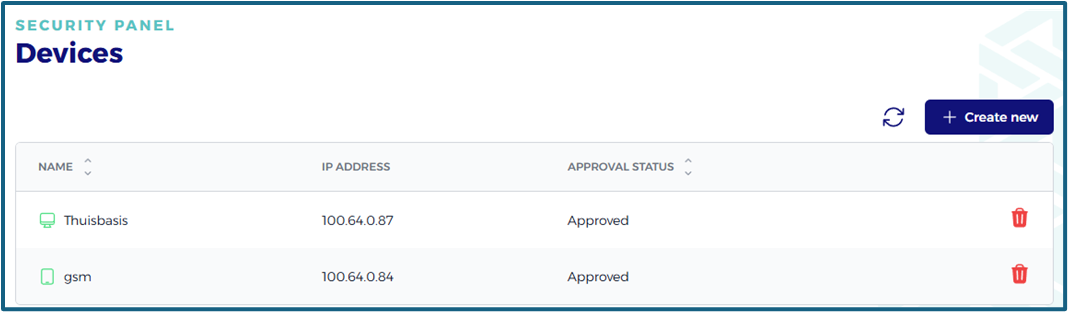
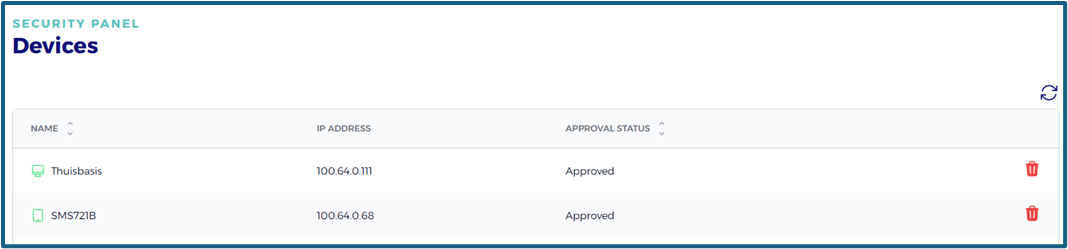
24th of July, 2025 (12:15)

diff --git a/rules/security_panel/security_panel.md b/rules/security_panel/security_panel.md
@@ -4,19 +4,19 @@ When you click on the Jimber tray icon, a menu appears with several available op
 
 ![Screenshot of the Jimber Tray Menu](./screenshots/jimber_tray.png ':size=300')
 
-> [!INFO]
-> Aside from the Security Panel, the menu offers other information about your connection to the `Jimber SASE Platform`, such as your login status, user details, the company you are connected to, and your `Jimber SASE Platform` IP address.
->
->
-> Here you can either disconnect (and reconnect) to the `Jimber SASE Platform`, or log out from the platform. Note that you will need to log back in with your credentials if you choose this option.
->
->
-> Finally, the menu allows you to toggle **Stealth mode** for your session. Stealth mode is designed to make VPN connections possible in environments that would normally block them—such as public hotspots, airports, or countries with strict internet censorship. It works by disguising VPN traffic to look like regular internet traffic, helping you bypass network restrictions.
->
->
-> Note that **Stealth mode** is only available in certain situations where your connection is recognized as external to the Jimber SASE cloud environment.
 
-Clicking Security Panel opens a new browser tab. By default, the Services tab is shown, and depending on the configured services, the screen you see may vary.
+Aside from the Security Panel, the menu offers other information about your connection to the `Jimber SASE Platform`, such as your login status, user details, the company you are connected to, and your `Jimber SASE Platform` IP address.
+
+
+Here you can either quit the application, disconnect (and reconnect) to the `Jimber SASE Platform`, or log out from the platform. Note that you will need to log back in with your credentials if you choose this option.
+
+Finally, the menu allows you to toggle **Stealth mode** for your session. Stealth mode ensures that traffic is sent via encrypted HTTP and is designed to make VPN connections possible in environments that would normally block them, such as public hotspots, airports, or countries with strict internet censorship. It works by disguising VPN traffic to look like regular internet traffic, helping you bypass network restrictions.
+
+
+> [!NOTE]
+> **Stealth mode** is only available in certain situations where your connection is recognized as external to the Jimber SASE cloud environment.
+
+Clicking **Security Panel** opens a new browser tab. By default, the Services tab is shown, and depending on the configured services, the screen you see may vary.
 
 ![Screenshot of the Services tab of the Security Panel](./screenshots/secure_panel.png ':size=700')
 
@@ -25,33 +25,55 @@ The services listed on this page depend on the configurations set under Services
 > [!INFO]
 > More information on configuring services can be found [here](/./rules/services/services.md).
 
-Selecting the second option in the sidebar, Devices, displays a screen where you can inspect and add your mobile devices.
+Selecting the second option in the sidebar, Devices, displays a screen where you can inspect all your devices.
 
 ![Screenshot of the Devices tab of the Security Panel](./screenshots/sec_pan_devices.png ':size=700')
 
-> [!WARNING]
-> Users can only create new mobile devices on this page. Other devices like laptops, PCs and servers will appear in the list after installing the *`Jimber SASE Client`* and running it on the device to sign in to the *`Jimber SASE Platform`*.
->
+> [!NOTE]
+> All devices will appear in the list after installing the *`Jimber SASE Client`* and running it on the device to sign in to the *`Jimber SASE Platform`*.
+<!-- >
 >The `+ Create new` button will only be visible if the Group Configuration **MOBILE CONNECTION** is enabled for the group the user belongs to. 
 >
-> More information on Group Configuration can be found [here](/./rules/groupconfiguration/groupconfiguration.md).
+> More information on Group Configuration can be found [here](/./rules/groupconfiguration/groupconfiguration.md). -->
 
 
-You can add a new mobile device by clicking on the `+ Create new` button located at the upper right corner of the interface. 
+<!-- You can add a new mobile device by clicking on the `+ Create new` button located at the upper right corner of the interface.  -->
 
-In step 1, you are provided with a QR code to install the Jimber SASE app.<!--Jimber SASE Application--> If you have already installed the application, you may skip this step.
+### Installing Jimber SASE on a mobile device
 
-![Screenshot of step 1 of adding a User Device](./screenshots/scan_device.png ':size=500')
+**Step 1**
 
-In step 2, you can choose a name for your new mobile device.
+Search in the Play Store or in the App Store for `Jimber Network Installation` and install the app.   
 
-![Screenshot of step 2 of adding a User Device](./screenshots/add_user_device.png ':size=500')
+<!-- ![Screenshot of step 1 of adding a User Device](./screenshots/scan_device.png ':size=500') -->
 
-In Step 3, you are provided with a different QR code to connect the mobile device to your user account on the *`Jimber SASE Platform`*. Follow the instructions in this step to scan the code using the application.
+**Step 2** 
+
+Open the app and sign in to your account: 
+
+![log_in](./screenshots/sign_in.jpg ':size=200')
+
+> [!NOTE]
+> If you don't have a login yet, please reach out to your network administrator to set up an account for you.
+
+**Step 3**
+
+Choose a name for your added mobile device and hit `Submit`
+
+![choose_name](./screenshots/choose_name.jpg ':size=200')
+
+**Step 4**
+
+In the next screen, toggle the switch to turn on `Jimber SASE`.  
+
+![turn_on](./screenshots/turn_on_jimber.jpg ':size=200')
+
+<!-- In Step 3, you are provided with a different QR code to connect the mobile device to your user account on the *`Jimber SASE Platform`*. Follow the instructions in this step to scan the code using the application.
 
 ![Screenshot of step 3 of adding a User Device](./screenshots/add_user_device_2.png ':size=500')
 
-After confirming the installation by clicking `I have configured my device`, your mobile device will be added to the list. 
+After confirming the installation by clicking `I have configured my device`, your mobile device will be added to the list.  -->
+The mobile device can now be found in the list of devices. 
 
 >[!Warning]
 > The user will not be able to add a new mobile device if the Group Configuration **DEVICE LIMIT** is enabled and the maximum number of allowed devices has already been reached.

diff --git a/advanced/unified_environment/unified_environment.md b/advanced/unified_environment/unified_environment.md
@@ -48,6 +48,8 @@ The first step is to register the domains of each company into the SASE environm
 
 Domains act as the primary namespace reference for users, groups, resources, and policies.
 
+![domains.png](/screenshots/domains.png)
+
 ---
 
 ### Step 2 — Add Users
@@ -55,6 +57,8 @@ Domains act as the primary namespace reference for users, groups, resources, and
 Users are added based on their email addresses, which automatically tie them to the appropriate domain/company.
 
 No additional onboarding steps are required per user beyond adding their email — their domain affiliation is clear from the email (e.g., `alice@companya.be`, `bob@companyb.co.uk`).
+
+![users.png](/screenshots/users.png)
 
 ---
 
@@ -81,6 +85,8 @@ Add the resources (servers, applications, file shares, etc.) specific to the com
 
 This makes it easy to identify and manage company-specific assets.
 
+![servers.png](/screenshots/servers.png)
+
 ---
 
 ### Step 5 — Configure Access via Attribute Service
@@ -104,7 +110,7 @@ Unified, functional security groups:
 - Focus on shared security functions rather than company boundaries
 - Allow policies to be applied centrally and uniformly
 
-For example:
+**For example:**
 - A group like `group.webfiltering-enabled.all-companies` could include `group.all-users.companya.be`, `group.all-users.companyb.co.uk`, and other company user groups.
 
 ---
@@ -114,10 +120,10 @@ For example:
 Central policy application  
 You can attach security features (such as `policy.webfiltering.all-companies`, `policy.dns-protection.all-companies`) directly to these functional groups. This ensures the policy is enforced consistently, no matter the company.
 
-Flexible membership  
+**Flexible membership**  
 Groups from different companies can be added as members of a functional group. This allows a single policy to cover many companies without duplicating configurations.
 
-No added risk  
+**No added risk**  
 Even though these groups span multiple companies:
 - There is no unintended cross-access to resources or data
 - Policies applied are security enforcements only, not permissions to access company-specific resources

diff --git a/devices/userdevices/userdevices.md b/devices/userdevices/userdevices.md
@@ -166,8 +166,11 @@ After signing in, clicking on the icon will show you this tray:
 
 ![logout.png](./screenshots/logout.png ":size=300")
 
-- `Stealth mode` ensures that traffic is sent via HTTPS, allowing you to connect to Jimber even on hotspots, etc.
-   To use this feature, port 51820 is normally used.
+- `Stealth mode` ensures that traffic is sent via encrypted HTTP and is designed to make VPN connections possible in environments that would normally block them, such as public hotspots, airports, or countries with strict internet censorship. It works by disguising VPN traffic to look like regular internet traffic, helping you bypass network restrictions. To use this feature, port 51820 is normally used.
+>
+> [!NOTE]
+> **Stealth mode** is only available in certain situations where your connection is recognized as external to the Jimber SASE cloud environment.
+
 - `Disconnect` will disconnect you from the *`Jimber SASE Platform`*, but you stay signed in.
 - `Quit` closes the application.
 
